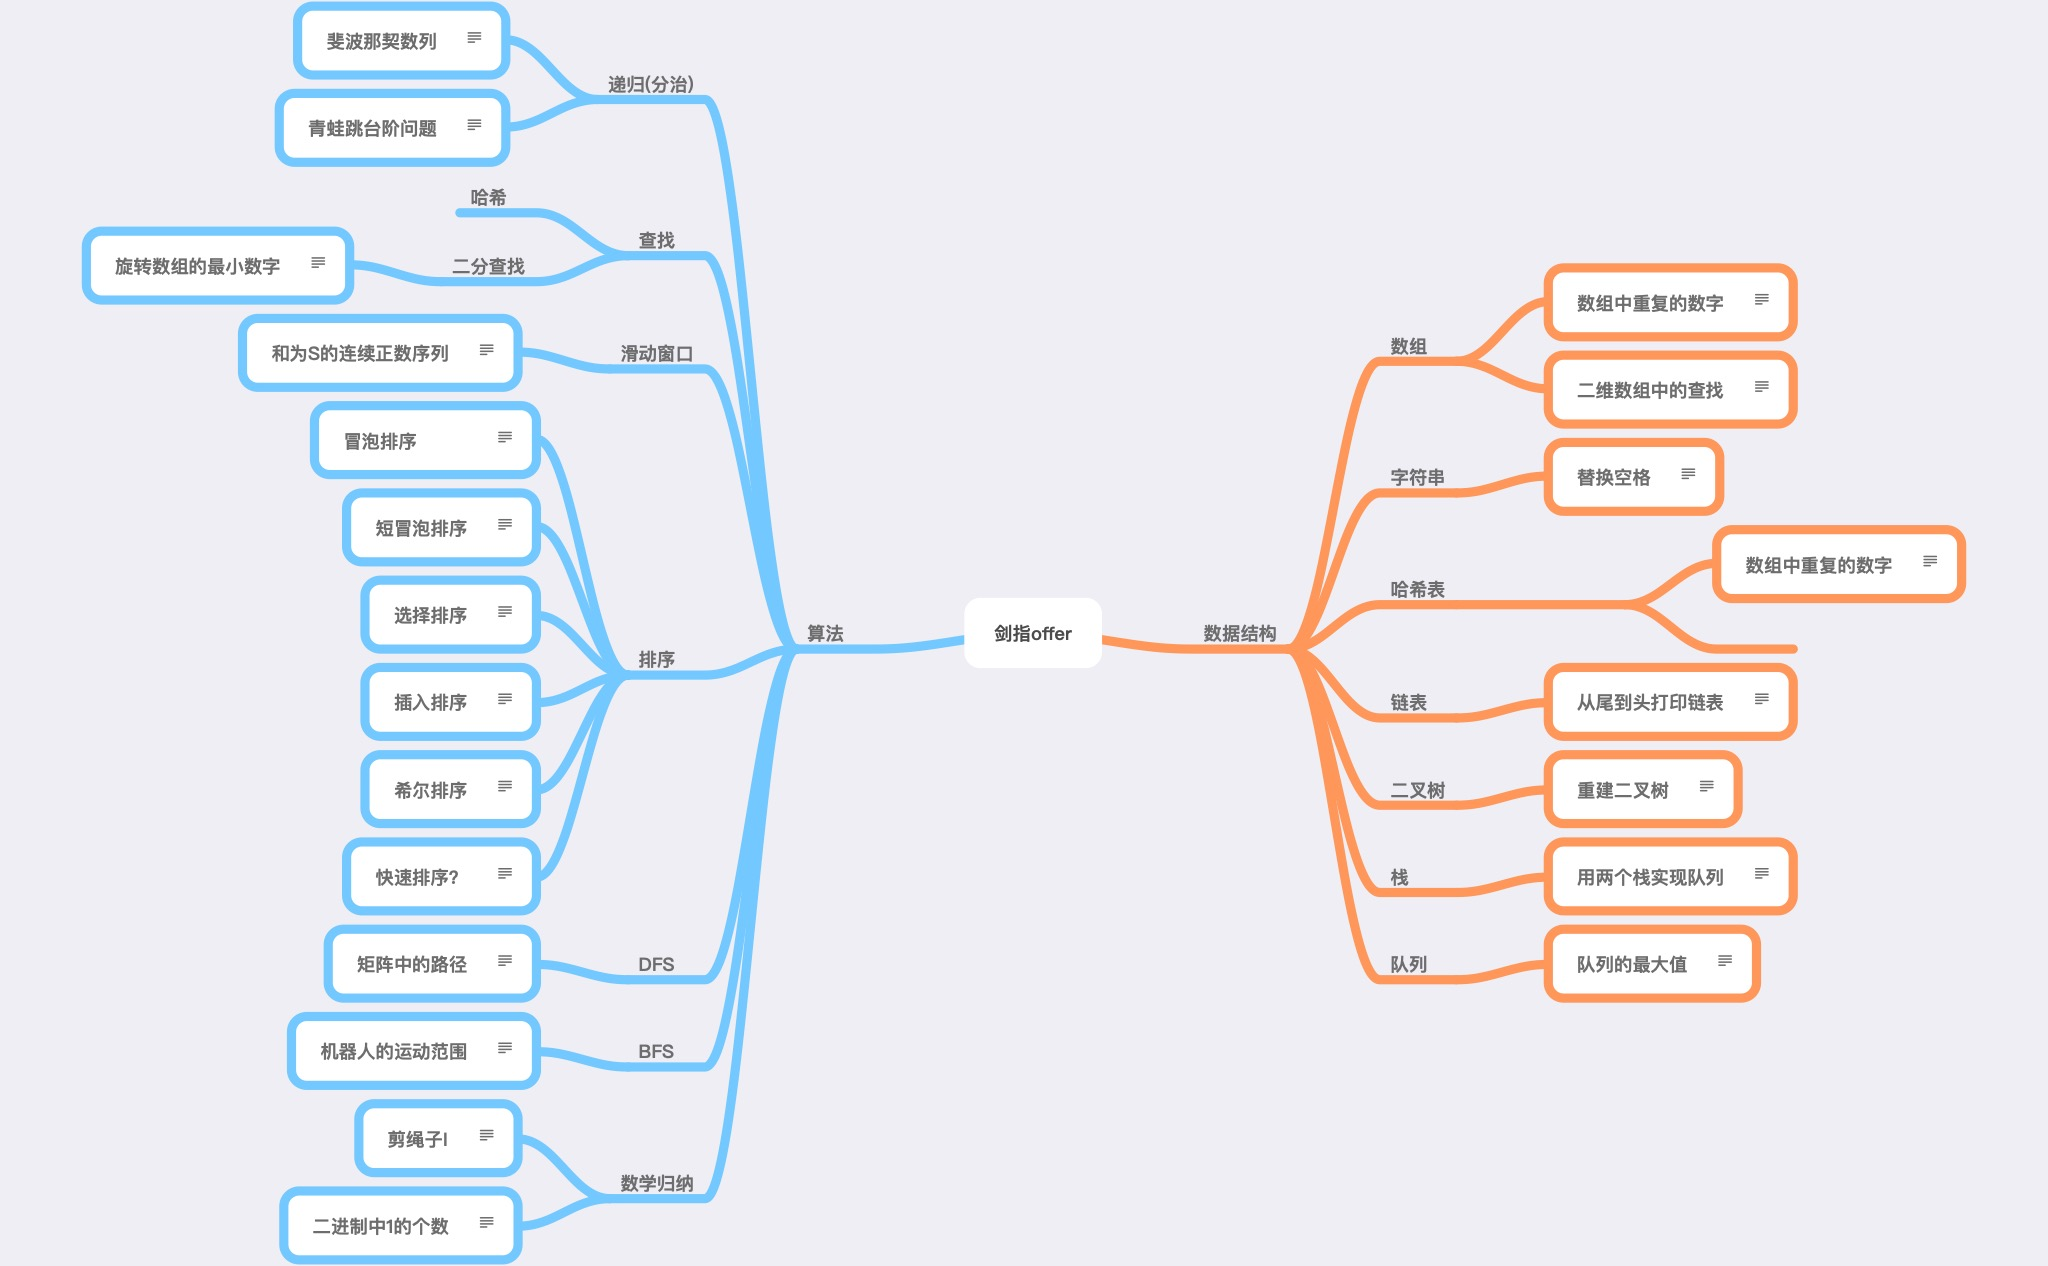
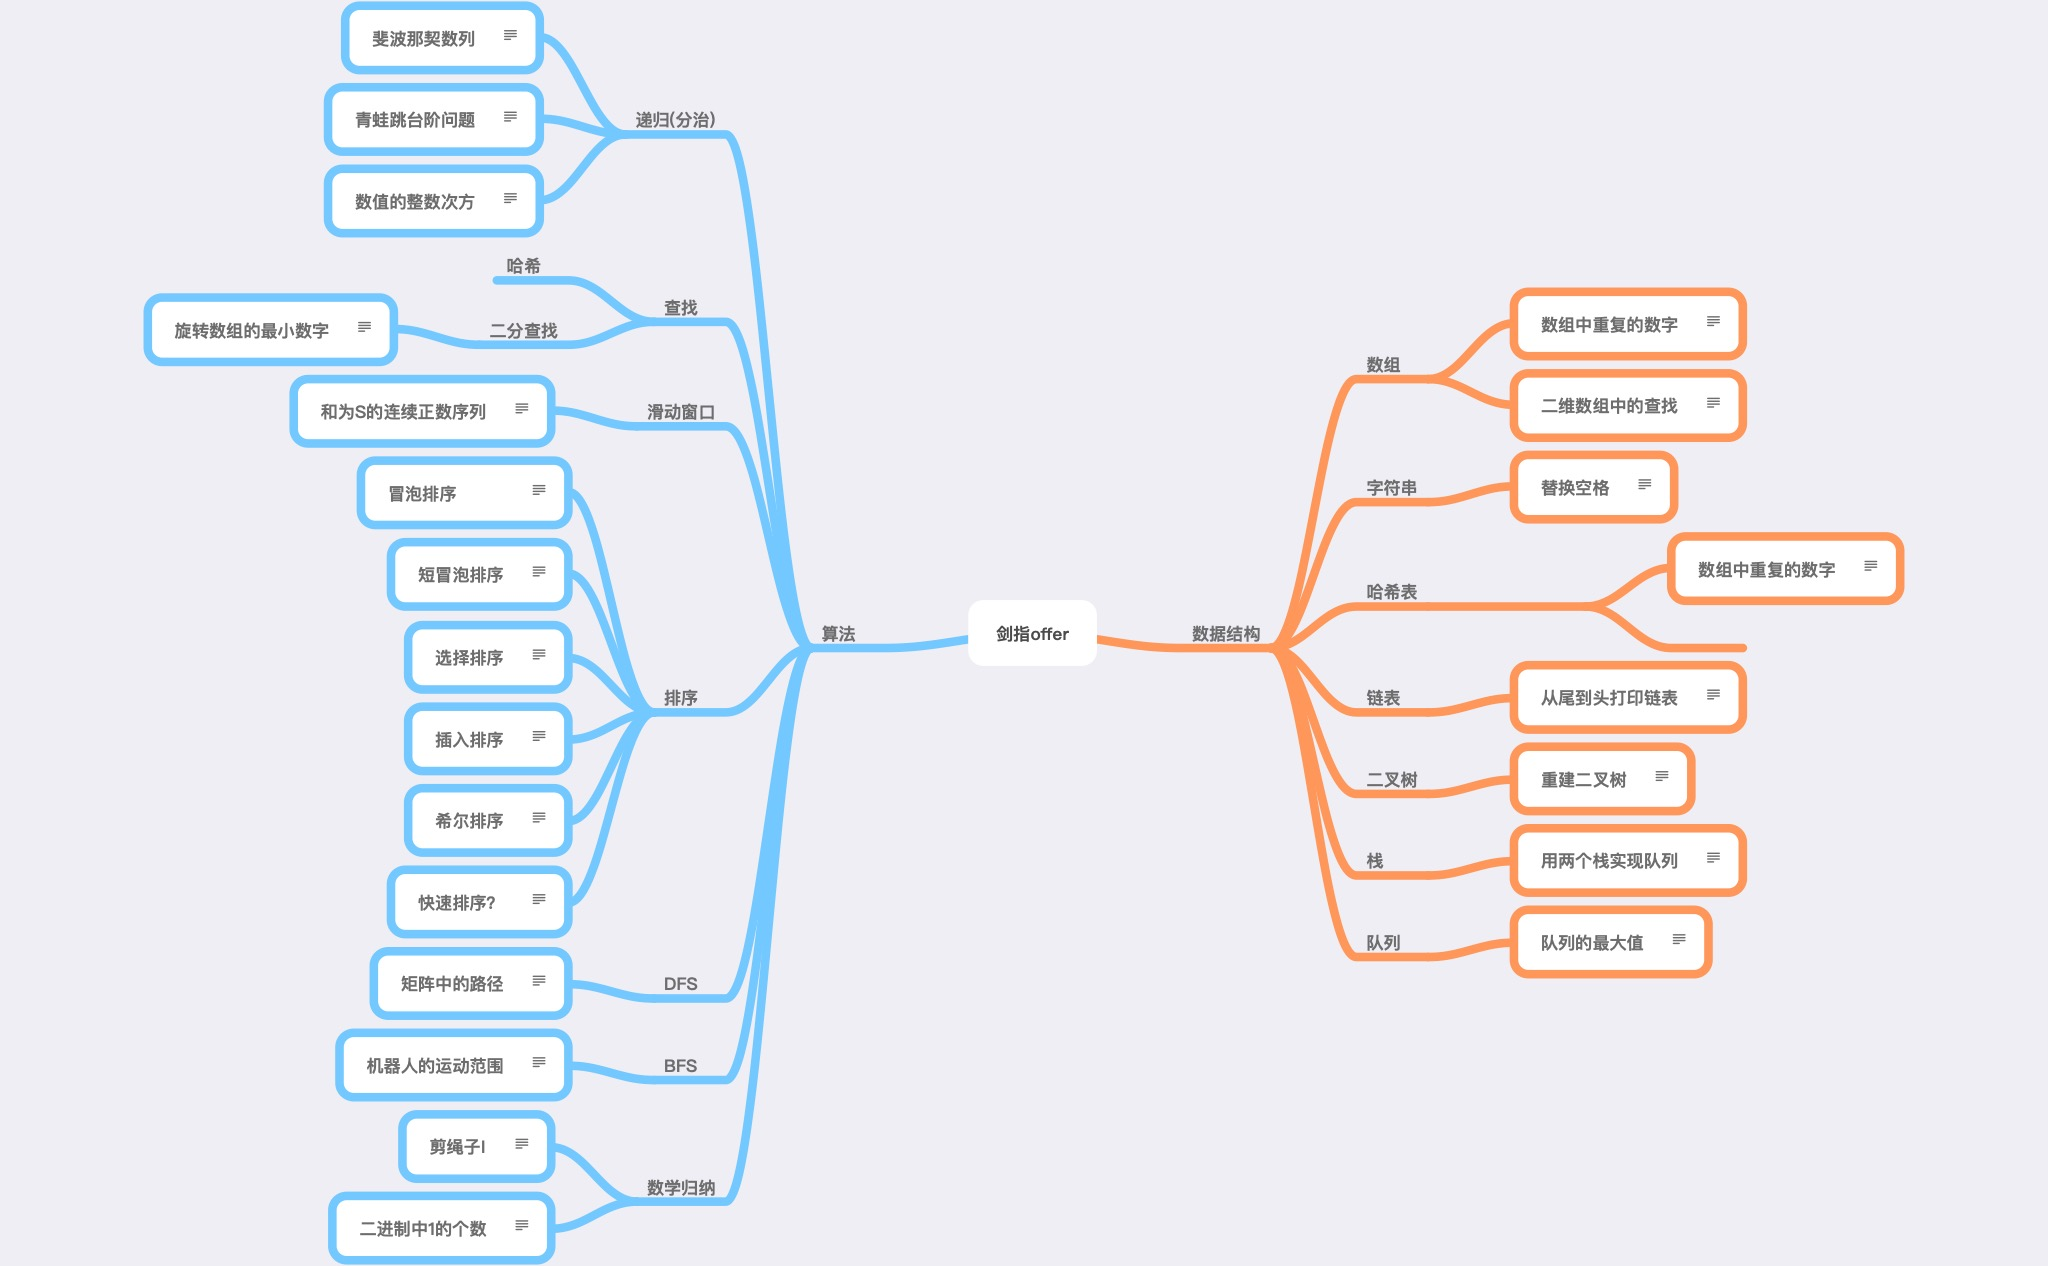
add

Changed region(s): [[0.0312, 0.0, 0.4375, 1.0], [0.5625, 0.1848, 0.9688, 0.8009], [0.4688, 0.4929, 0.5312, 0.5237]]

diff --git a/offer-16/offer-16.py b/offer-16/offer-16.py
@@ -1,0 +1,27 @@
+#!/usr/bin/env python
+# -*- coding: utf-8 -*-
+# ylgongPw @ 2020-03-17 10:28:05
+class Solution:
+    def myPow(self, x: float, n: int) -> float:
+
+        if n < 0:
+            n = -n
+            x = 1/x
+
+        def helper(x,n):
+            if n == 0:
+                return 1
+            if n % 2 == 0:
+                return helper(x*x, n//2)
+            if n % 2 == 1:
+                return helper(x*x,(n-1)//2)*x
+
+
+        return helper(x,n)
+
+
+
+if __name__ == '__main__':
+    S = Solution()
+    ret = S.myPow(2.00000,-2)
+    print (ret)

diff --git a/offer-16/offer-16.md b/offer-16/offer-16.md
@@ -1,0 +1,33 @@
+# 题目描述 
+
+```
+实现函数double Power(double base, int exponent)，求base的exponent次方。不得使用库函数，同时不需要考虑大数问题。
+
+示例 1:
+
+输入: 2.00000, 10
+输出: 1024.00000
+示例 2:
+
+输入: 2.10000, 3
+输出: 9.26100
+示例 3:
+
+输入: 2.00000, -2
+输出: 0.25000
+解释: 2-2 = 1/22 = 1/4 = 0.25
+
+```
+
+# 解题思路
+* 考虑n为偶数 val = pow(x\*x, n //2)
+* 考虑n为奇数 val = pow(x\*x, (n-1) //2) * x
+* 每次迭代,n // 2 数据减少一半，考虑使用递归解决问题
+
+
+
+## 解题代码
+
+[数值的整数次方](offer-16.py)
+
+ 

diff --git a/offer.md b/offer.md
@@ -14,5 +14,6 @@
 | 面试题-14.1 | 中等 | [剪绳子I](offer-14.1/offer-14.1.md) |  |
 | 面试题-14.2 | 中等 | [剪绳子II](offer-14.2/offer-14.2.md) |  |
 | 面试题-15 | 简单 | [二进制中1的个数](offer-15/offer-15.md) |  |
+| 面试题-16 | 中等 | [数值的整数次方](offer-16/offer-16.md) |  |
 | 面试题-57-II | 简单 | [和为S的连续正数序列](offer-57/offer-57.md) |  |
 | 面试题-59-II | 简单 | [队列中的最大值](offer-59.1/offer-59.1.md) |  |
